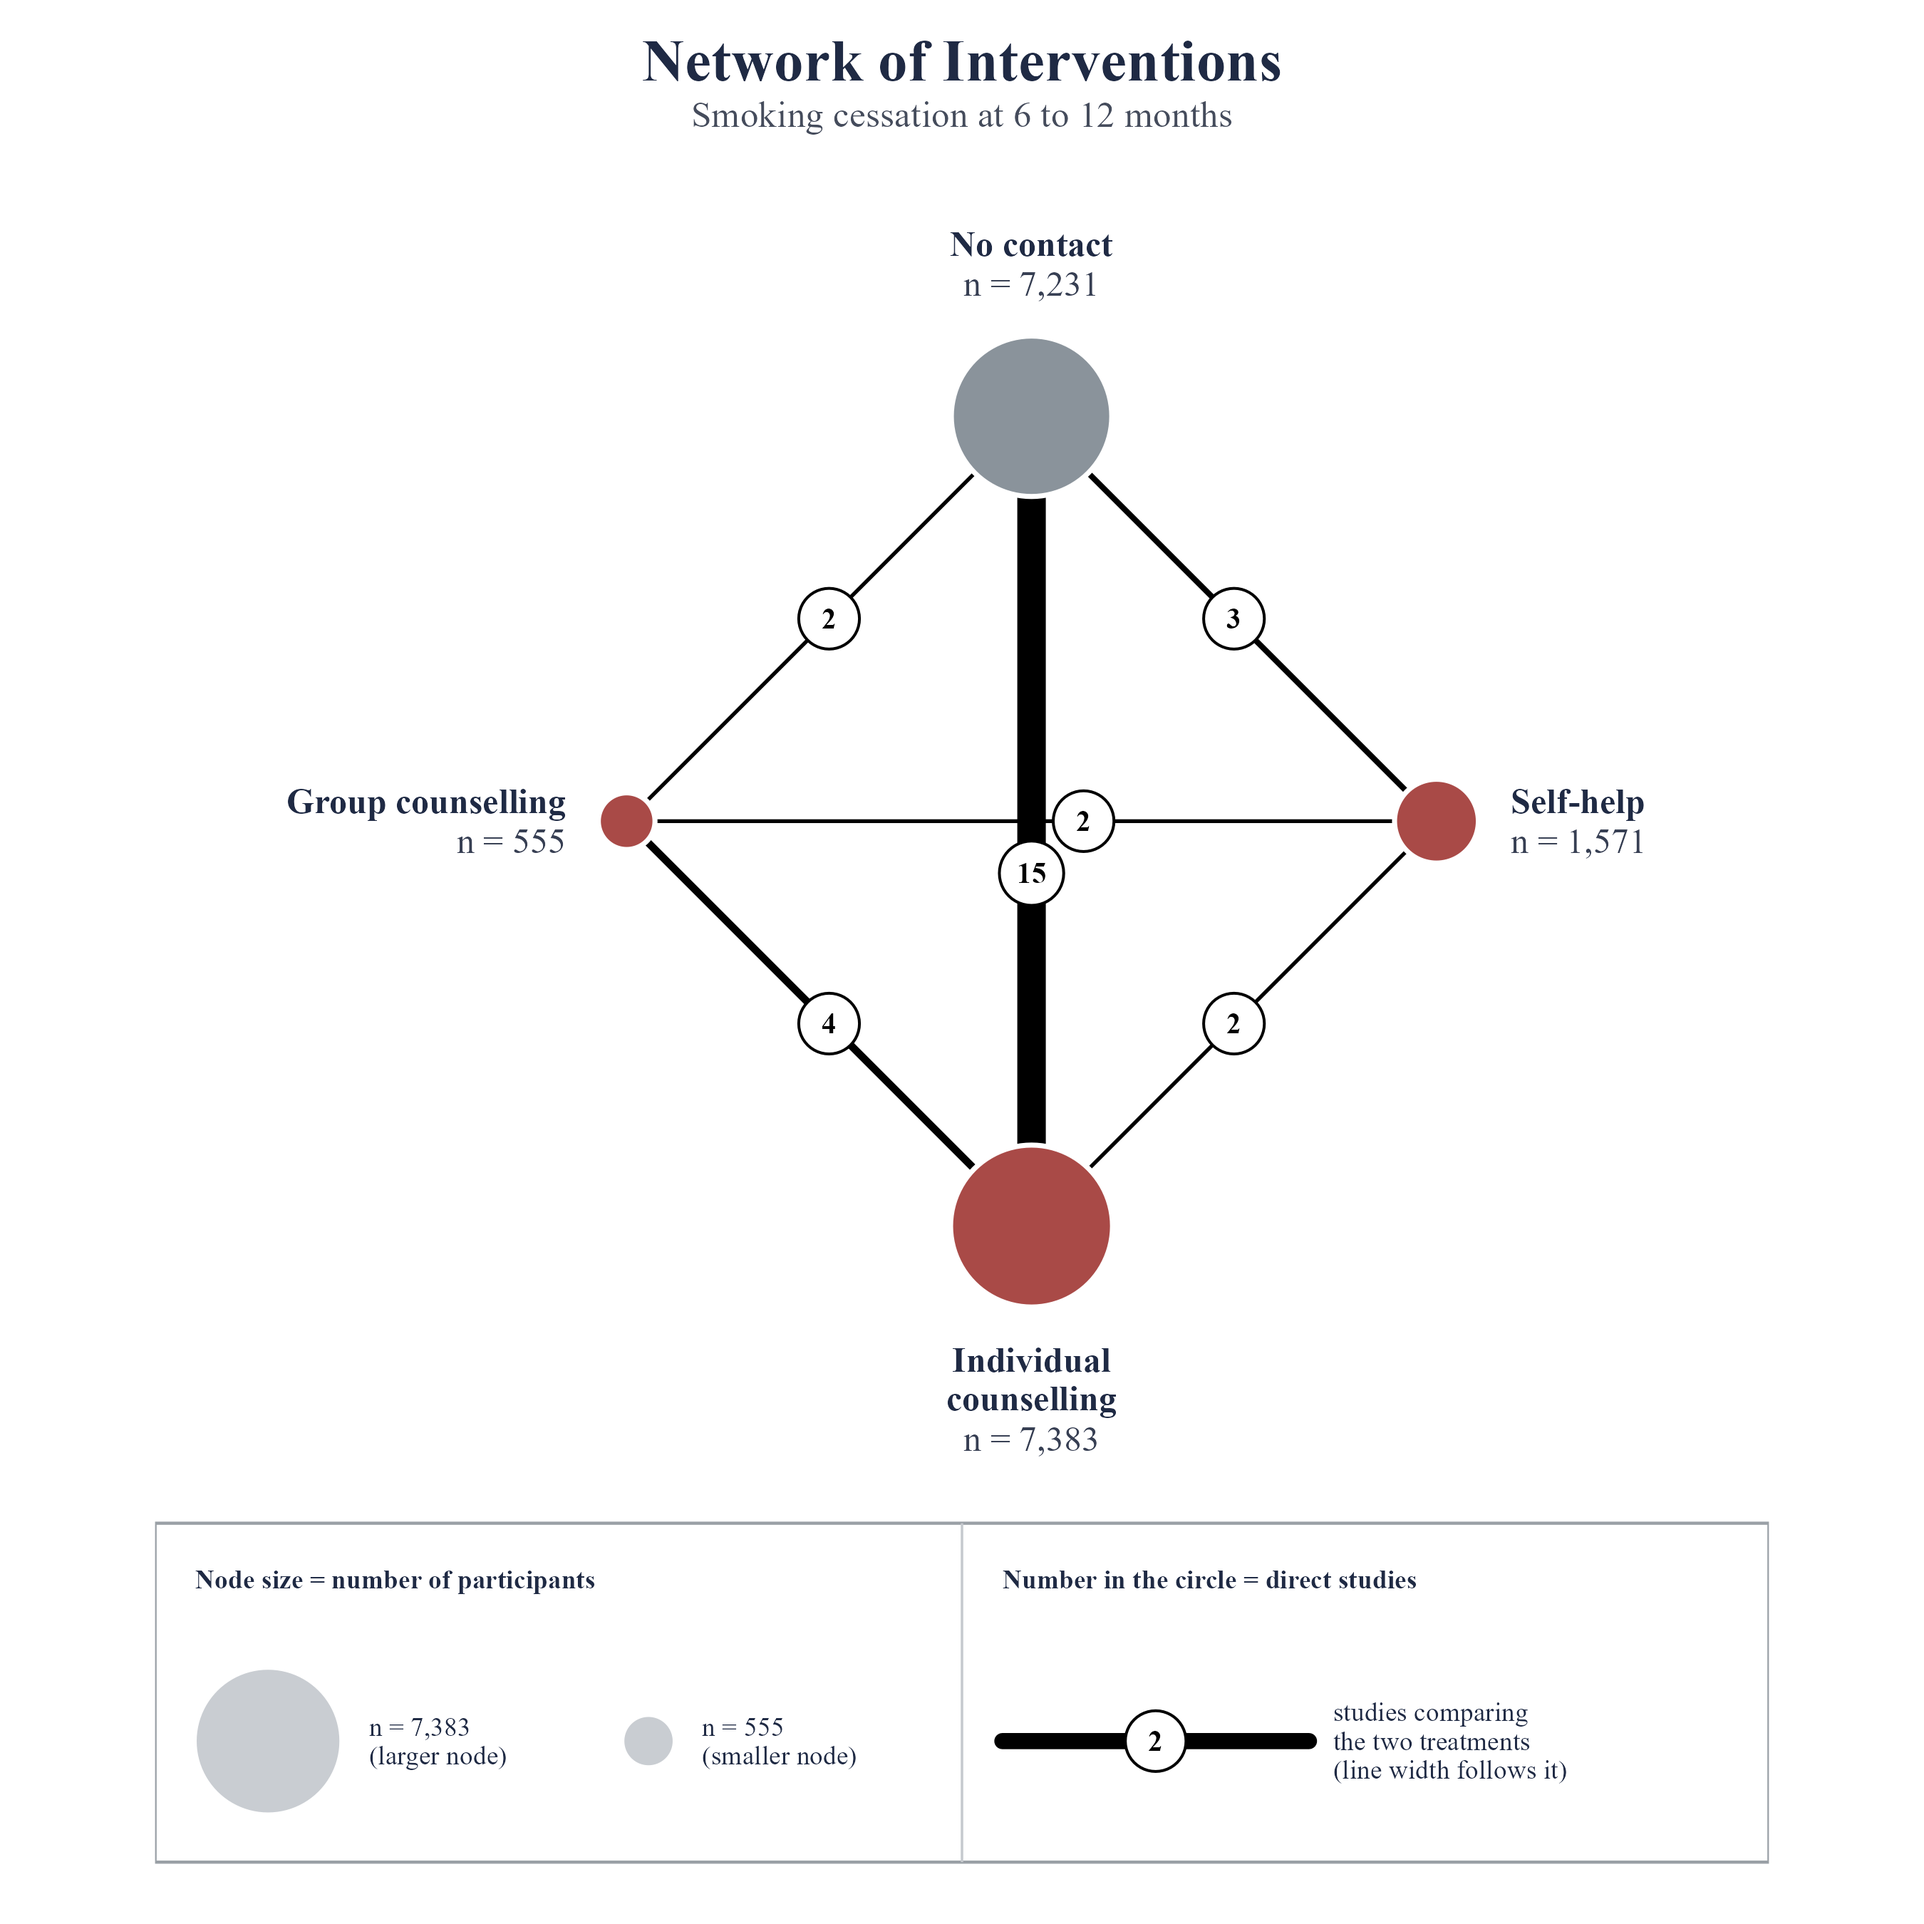
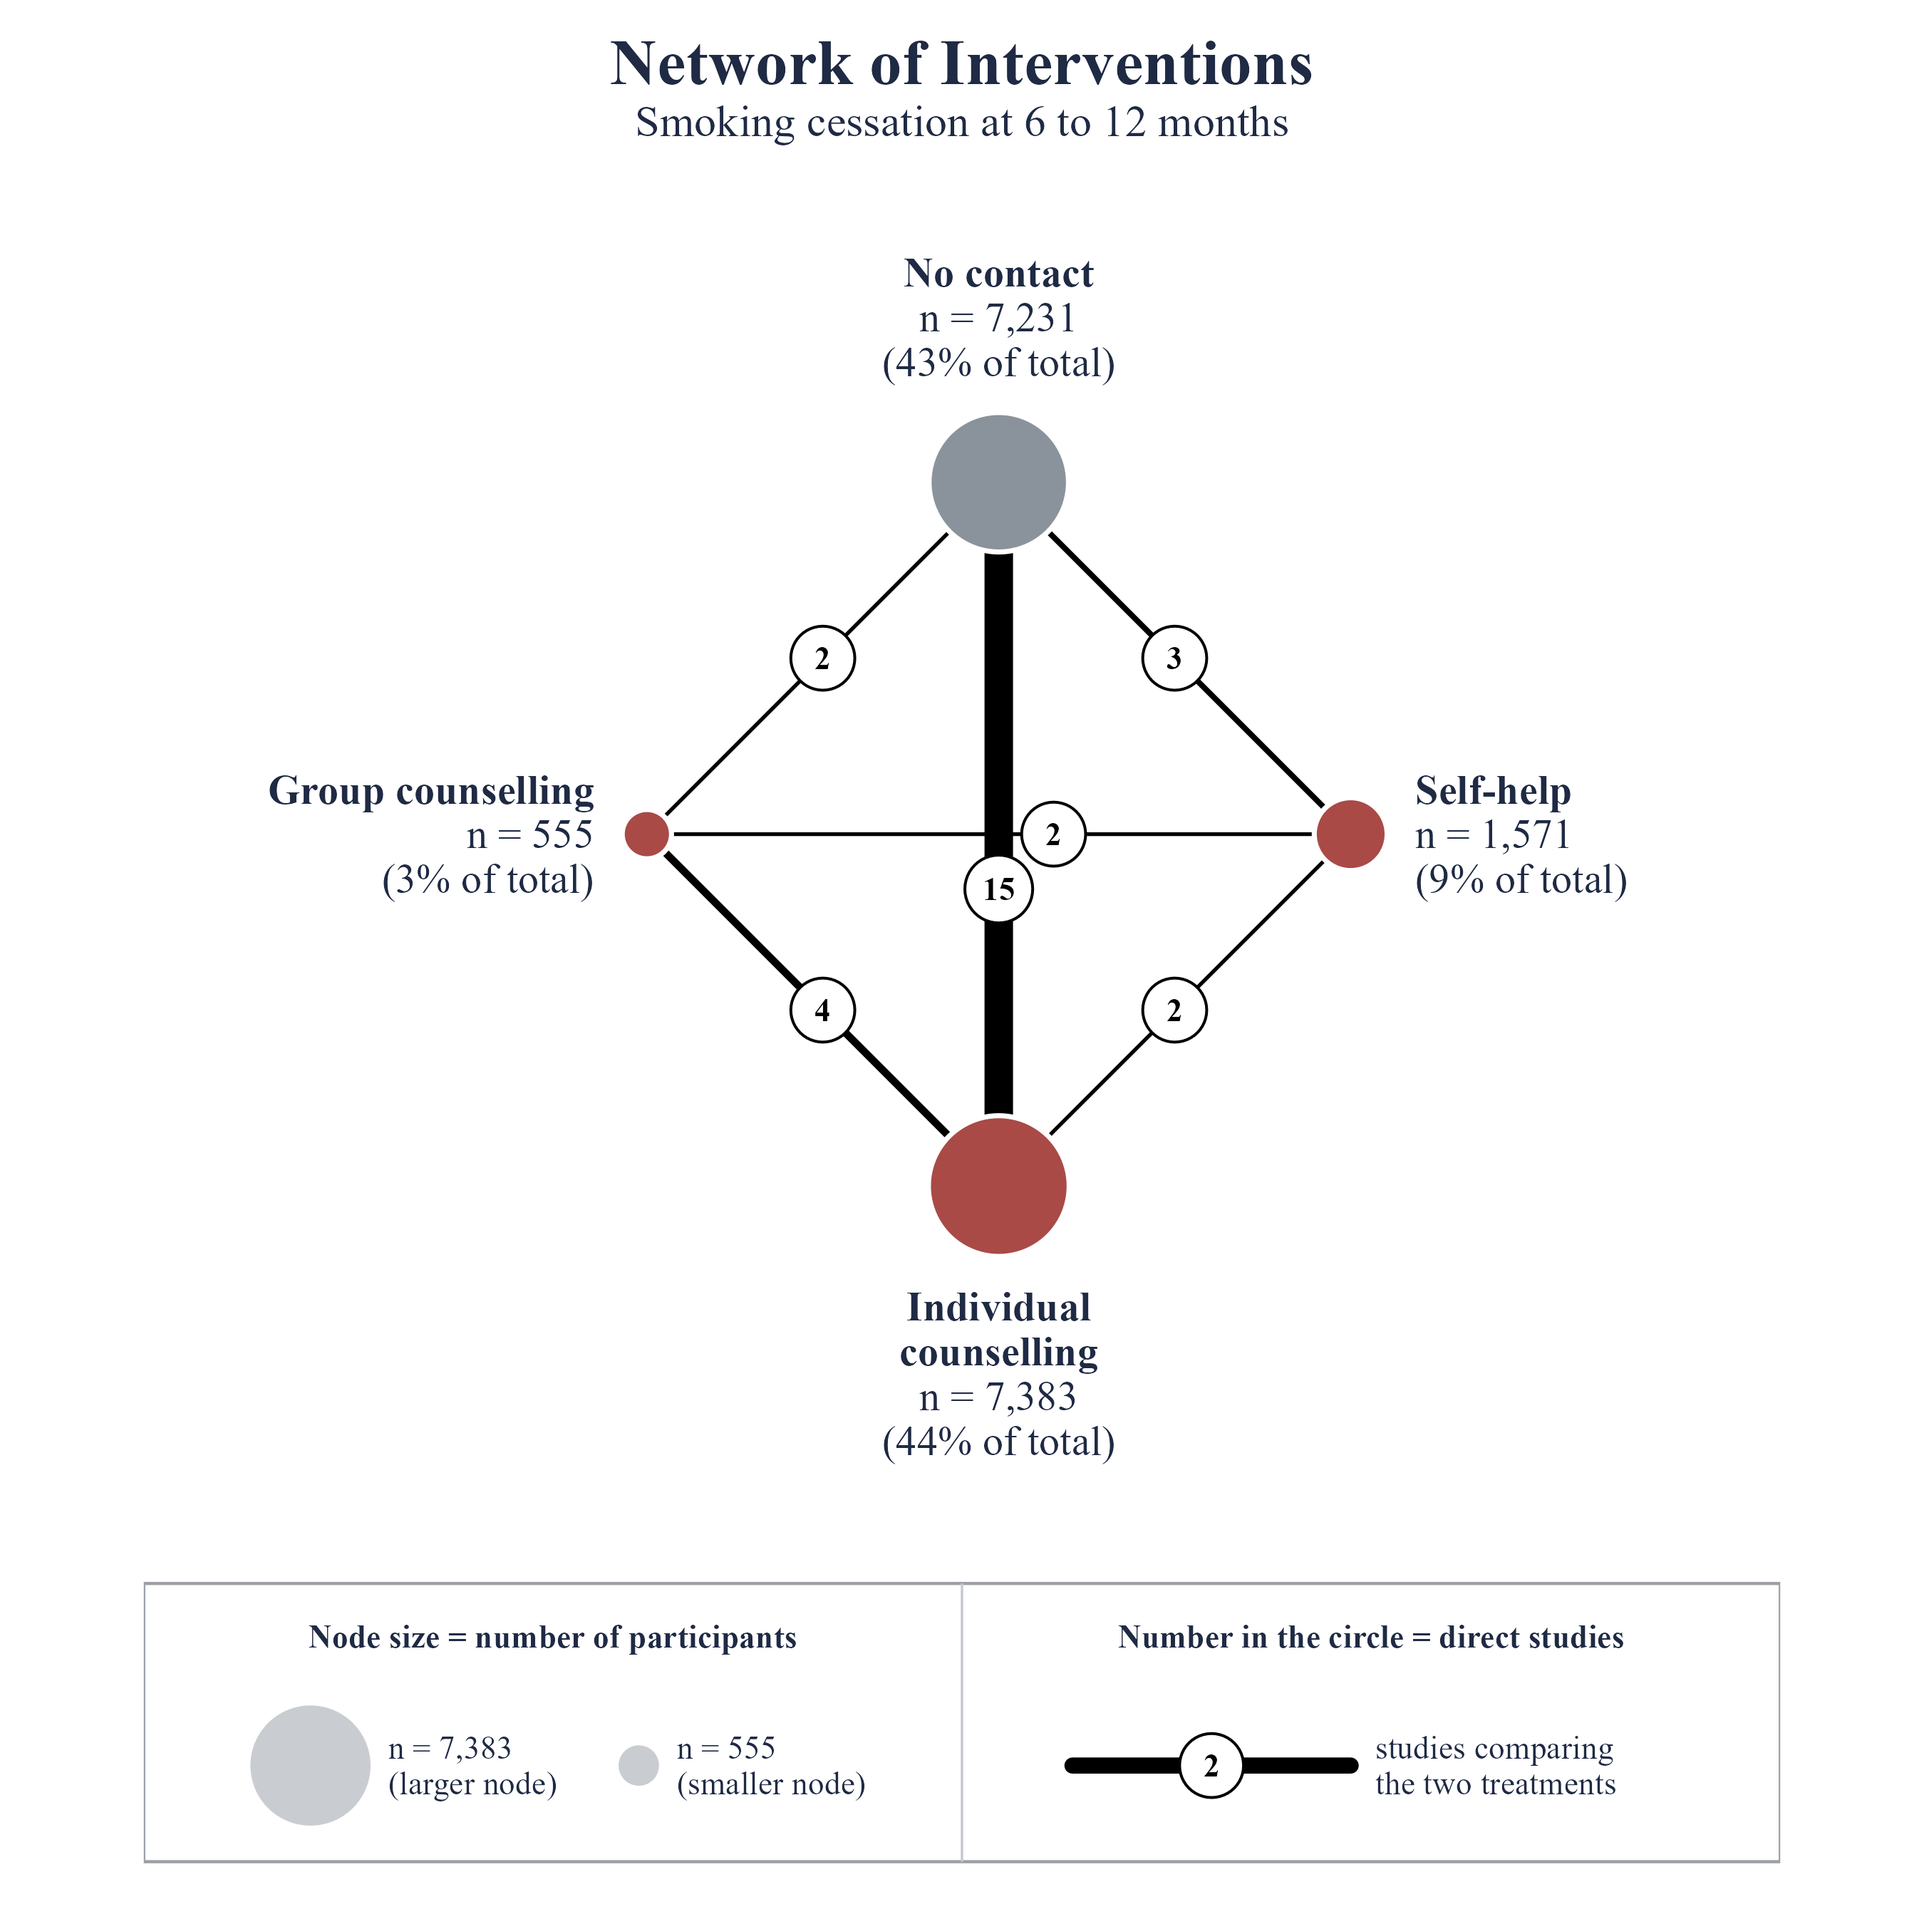
feat: share of total under n, larger type, compact centred legend
- node label: bold name, then 'n = 7,231' and '(43% of total)' on separate
  lines, all in the label colour (no softened greys anywhere)
- label_size 14, edge_label_size 11, legend_size 11, title_size 22; subtitle
  and caption in the title colour
- legend box shorter; every section centred with a bold title; ring rows
  centred as a block
- star layout: centre-disc text scaled to fit
- repair of string literals split by an earlier patch

diff --git a/README.md b/README.md
@@ -5,7 +5,7 @@ Publication-quality network plots for `netmeta` objects, in one function.
 `nmaplot()` takes the object returned by `netmeta::netmeta()`, exactly like
 `netmeta::netgraph()`, and draws the evidence network with ggplot2: node
 area by sample size, black edges with the number of studies in a circle,
-treatment name plus `n = 1,234` at every node, an optional outer ring per
+treatment name plus `n = 1,234 (18% of total)` at every node, an optional outer ring per
 node showing a subgroup composition (study design, risk of bias, region,
 anything), and a framed legend panel.
 
@@ -64,7 +64,7 @@ nmaplot(net1, ring = design, ring_name = "Study design",
 | Number of studies on each connection | circled count, `edge_labels = TRUE` (default), `edge_label_size`, `edge_label_fill` (`NA` = plain text) |
 | One line per study between two nodes | `edge_style = "multi"`, `max_lines` |
 | Hide weakly connected comparisons | `min_studies` |
-| Sample size of each group in the label | `show_n = TRUE` (default); falls back to number of studies `(k = ...)` when the object has no sample sizes |
+| Sample size and share of total under each name | `show_n = TRUE` (default); falls back to number of studies `k = ...` when the object has no sample sizes |
 | Colours | `node_fill` (single colour, one per treatment, or `"auto"` + `palette`), `reference_fill` (grey reference node), `node_color`, `edge_color`, `highlight` + `highlight_color`, `background`, `label_color` |
 | Node size | `node_size = "n" / "studies" / "equal"` or numeric, `node_size_range` |
 | Edge width | `edge_width = "studies" / "equal"` or numeric, `edge_width_range` |
